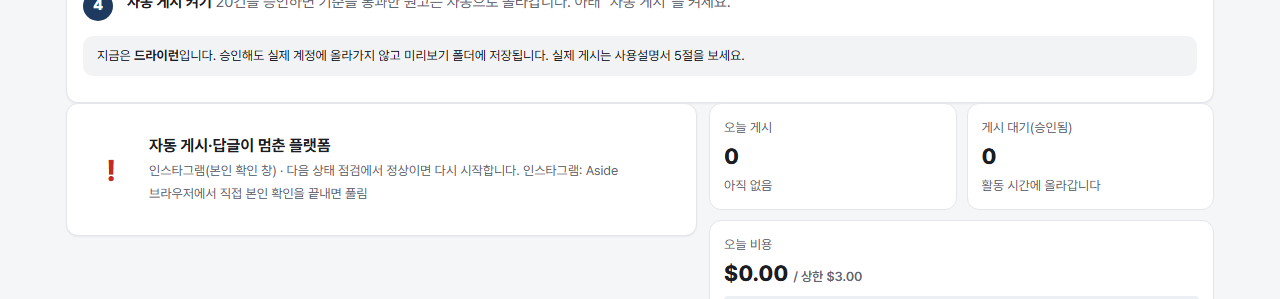
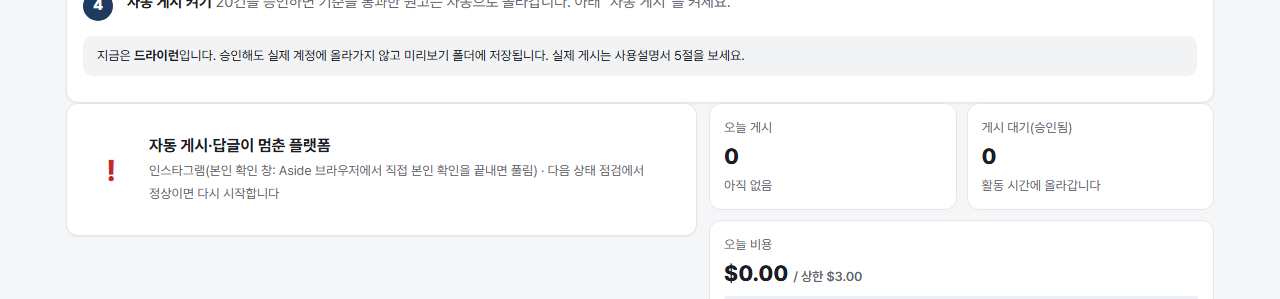
fix(health): address review on login state detail
- 화면 글을 못 읽은 경우(text 없음)는 빈 화면으로 보지 않음
- 두 단계 인증 주소를 문구보다 먼저(문자 2FA가 verify로 분류되던 것)
- 로그인 폼은 폼에만 있는 문구로(Meta 안내문의 '로그인' 낱말로 logged_out이 되던 것)
- 재알림은 세부 상태가 있는 auth 멈춤만, E5 전 멈춤은 그때부터 24시간을 셈
- 본인 확인 → 계정 불일치 전환도 상태 변화로
- 증거 쿨다운 중엔 스크린샷 없이 화면 글만, 빈 화면 오류 한 곳, dict 아닌 증거 방어
- 플랫폼 이름은 rate_limit.NAMES 하나, 오늘 화면은 플랫폼마다 "이유: 할 일"

Changed region(s): [[0.2188, 0.5418, 0.5, 0.602], [0.0938, 0.6321, 0.2812, 0.6622]]

diff --git a/nsm/app/templates/overview.html b/nsm/app/templates/overview.html
@@ -46,7 +46,7 @@
       {% if paused %}
       <li><div class="todo-item bad">
         <span class="todo-num">!</span>
-        <span class="todo-text"><b>자동 게시·답글이 멈춘 플랫폼</b><span>{% for p in paused %}{{ p|ko_platform }}({{ paused_why.get(p, '이유 미기록') }}){% if not loop.last %}, {% endif %}{% endfor %} · 다음 상태 점검에서 정상이면 다시 시작합니다{% if '로그인 필요' in paused_why.values() %}. 로그인 필요는 Aside 브라우저에서 다시 로그인하세요{% endif %}{% for p, t in paused_todo.items() %}. {{ p|ko_platform }}: {{ t }}{% endfor %}</span></span></div></li>
+        <span class="todo-text"><b>자동 게시·답글이 멈춘 플랫폼</b><span>{% for p in paused %}{{ p|ko_platform }}({{ paused_why.get(p, '이유 미기록') }}{% if paused_todo.get(p) %}: {{ paused_todo[p] }}{% endif %}){% if not loop.last %}, {% endif %}{% endfor %} · 다음 상태 점검에서 정상이면 다시 시작합니다{% if '로그인 필요' in paused_why.values() %}. 로그인 필요는 Aside 브라우저에서 다시 로그인하세요{% endif %}</span></span></div></li>
       {% endif %}
       {% for st in stalls %}
       <li><a class="todo-item warn" href="/logs">

diff --git a/nsm/adapters/platforms/aside_common.py b/nsm/adapters/platforms/aside_common.py
@@ -175,12 +175,11 @@ class AsideAdapterBase:
             return self._rate_limited(now, e)
         if e.code == "login":
             ev = getattr(e, "evidence", None)
+            ev = ev if isinstance(ev, dict) else None
             if is_blank(
                 ev
             ):  # 글 주소인데 하얀 화면: 로그인 풀림이 아니라 덜 열림(2026-11-02 스레드)
-                return PlatformError(
-                    f"{self.platform}: 페이지가 덜 열림(빈 화면, 로그인 여부 모름)", "transient"
-                )
+                return self._blank_error()
             return LoginRequiredError(
                 f"{self.platform} 로그인 필요: {e}", classify(ev) if ev else None
             )
@@ -197,13 +196,21 @@ class AsideAdapterBase:
             # 집 폴더 경로가 알림·대시보드에 드러나지 않게 이름만(logs\\shots 아래)
             err.args = (f"{err.args[0]} (증거: {d.name})", *err.args[1:])
 
+    def _blank_error(self) -> PlatformError:
+        return PlatformError(
+            f"{self.platform}: 페이지가 덜 열림(빈 화면, 로그인 여부 모름)", "transient"
+        )
+
+    def _evidence_open(self, kind: str) -> bool:
+        last = self._evidence_at.get(kind)
+        return last is None or self._now() - last >= EVIDENCE_EVERY
+
     def _save_evidence(self, kind: str, evidence: dict | None, error: str) -> Path | None:
         """증거 폴더 하나(같은 종류는 한 시간에 한 번). 못 남기면 None."""
         from nsm.adapters.evidence import save_evidence
 
         now = self._now()
-        last = self._evidence_at.get(kind)
-        if last is not None and now - last < EVIDENCE_EVERY:
+        if not self._evidence_open(kind):
             return None
         d = save_evidence(
             self.platform,
@@ -224,15 +231,15 @@ class AsideAdapterBase:
         - 하얀 빈 화면은 로그인 풀림이 아니라 일시적 실패로 던진다(연속일 때만 멈춤).
         - 로그인 페이지를 새로 열거나 확인 창을 누르지 않는다. 자동으로 풀지 않는다(ADR 0060).
         """
-        data = self._call(body, {}, probe=True) or {}
+        # 스크린샷은 증거를 남길 수 있을 때만 찍게 한다(한 시간 쿨다운 안이면 화면 글만)
+        data = self._call(body, {"shot": self._evidence_open("auth")}, probe=True) or {}
         me, page = data.get("me", ""), data.get("page")
+        page = page if isinstance(page, dict) else None
         if not me:
             if is_blank(page):
                 self.auth_state = None
-                raise PlatformError(
-                    f"{self.platform}: 페이지가 덜 열림(빈 화면, 로그인 여부 모름)", "transient"
-                )
-            self.auth_state = classify(page) if isinstance(page, dict) else None
+                raise self._blank_error()
+            self.auth_state = classify(page) if page else None
             detail = f"{name} 로그인 필요(Aside 브라우저)"
             if self.auth_state in EVIDENCE_STATES:
                 d = self._save_evidence(

diff --git a/tests/unit/test_auth_state.py b/tests/unit/test_auth_state.py
@@ -182,7 +182,7 @@ def test_health_scripts_only_open_home_and_never_click() -> None:
     for body, prefix in ((IG_HEALTH, JS_IG), (TH_HEALTH, JS_HANDLE)):
         own = body[len(prefix) :]
         assert own.count("nsmOpen(") == 1 and "goto(" not in own and ".click(" not in own
-        assert "login" not in own.lower() and "nsmEvidence()" in own
+        assert "login" not in own.lower() and "nsmEvidence({ noShot: !ARGS.shot })" in own
 
 
 # ------------------------------------------------------------------ 어댑터: 댓글 확인·게시 전 확인(nsmAssertHandle)
@@ -227,3 +227,61 @@ def test_ports_are_unchanged() -> None:
 
     assert set(HealthStatus.model_fields) == {"logged_in", "detail"}
     assert "auth_state" not in PlatformAdapter.__dict__
+
+
+# ------------------------------------------------------------------ 리뷰 반영
+
+
+def test_unread_screen_is_not_blank() -> None:
+    """화면 글 읽기가 시간 초과·실패하면(text 키 없음) 빈 화면이 아니라 모르는 것이다."""
+    page = {"url": "https://www.instagram.com/", "screenshot": "x"}
+    assert not is_blank(page) and classify(page) == "unknown"
+
+
+def test_sms_two_factor_url_wins_over_code_words() -> None:
+    page = {
+        "url": "https://www.instagram.com/accounts/login/two_factor?next=%2F",
+        "text": "Enter the 6-digit code we sent to +82 •••• 12",
+        "labels": [],
+    }
+    assert classify(page) == "two_factor"
+
+
+def test_login_word_alone_is_not_a_login_form() -> None:
+    """Meta 안내문 어디에나 있는 '로그인'·'password' 낱말만으로는 로그아웃이 아니다."""
+    page = {
+        "url": "https://www.instagram.com/",
+        "text": "Meta는 회원님의 로그인을 돕고 password 보호",
+        "labels": [],
+    }
+    assert classify(page) == "unknown"
+    form = {"url": "https://www.instagram.com/", "text": "비밀번호를 잊으셨나요?", "labels": []}
+    assert classify(form) == "logged_out"
+
+
+def test_non_dict_evidence_does_not_crash(clock) -> None:
+    a = ThreadsAdapter(
+        "@me", clock, repl=FakeRepl(error=AsideError("로그인돼 있지 않음", "login", "garbage"))
+    )  # type: ignore[arg-type]
+    with pytest.raises(LoginRequiredError) as e:
+        a.fetch_new_comments(["P1"], None)
+    assert e.value.auth_state is None
+    a.repl = FakeRepl({"me": "", "page": ["x"]})
+    assert not a.health().logged_in and a.auth_state is None
+
+
+def test_screenshot_only_when_evidence_can_be_saved(clock) -> None:
+    a = InstagramAdapter(
+        "@nonsleepmarketer",
+        clock,
+        repl=FakeRepl({"me": "", "page": _ev("instagram-20261029-085642")}),
+    )
+    seen: list[bool] = []
+    run = a.repl.run
+    a.repl.run = lambda body, args=None, files=None: (
+        seen.append(args["shot"]),
+        run(body, args, files),
+    )[1]
+    a.health()  # 증거를 남김 → 다음 한 시간은 찍지 않는다
+    a.health()
+    assert seen == [True, False]

diff --git a/nsm/adapters/platforms/auth_state.py b/nsm/adapters/platforms/auth_state.py
@@ -40,6 +40,7 @@ def _rules() -> dict[str, Any]:
     )
     comp = lambda p: re.compile(p, re.IGNORECASE)  # noqa: E731
     return {
+        "url_first": [(r["state"], comp(r["pattern"])) for r in raw["url_first"]],
         "text": [(r["state"], comp(r["pattern"])) for r in raw["text_rules"]],
         "url": [(r["state"], comp(r["pattern"])) for r in raw["url_rules"]],
         "check_urls": comp(raw["check_urls"]),
@@ -53,21 +54,27 @@ def _parts(page: dict[str, Any] | None) -> tuple[str, str, list[str]]:
     return str(page.get("url") or ""), str(page.get("text") or "").strip(), labels
 
 
-def is_blank(page: dict[str, Any] | None) -> bool:
-    """덜 열린 하얀 화면: 주소가 있고, 로그인·확인 주소가 아니고, 글과 라벨이 모두 비었다(셋 다일 때만)."""
-    if not page:
+def is_blank(page: Any) -> bool:
+    """덜 열린 하얀 화면: 주소가 있고, 로그인·확인 주소가 아니고, 글과 라벨이 모두 비었다(셋 다일 때만).
+
+    화면 글을 읽었을 때만 판단한다(`text` 키가 있을 때). 읽기가 시간 초과·실패하면 글이 없는 게 아니라 모르는 것이다.
+    """
+    if not isinstance(page, dict) or "text" not in page:
         return False
     url, text, labels = _parts(page)
     return bool(url) and not _rules()["check_urls"].search(url) and not text and not labels
 
 
-def classify(page: dict[str, Any] | None) -> AuthState:
-    """화면 정보로 세부 상태. 글 → 주소 → 로그인 폼 순서. 화면 정보가 없으면 unknown."""
-    if not page:
+def classify(page: Any) -> AuthState:
+    """화면 정보로 세부 상태. 두 단계 인증 주소 → 글 → 주소 → 로그인 폼 순서. 화면 정보가 없으면 unknown."""
+    if not isinstance(page, dict) or not page:
         return "unknown"
     url, text, labels = _parts(page)
     seen = "\n".join([text, *labels])
     r = _rules()
+    for state, pat in r["url_first"]:
+        if pat.search(url):
+            return state
     for state, pat in r["text"]:
         if pat.search(seen):
             return state

diff --git a/nsm/engine/pause.py b/nsm/engine/pause.py
@@ -24,7 +24,6 @@ PAUSE_INFO_KEY = "paused_platforms_info"
 HEALTH_STREAK_KEY = "health_failure_streak"  # {플랫폼: 연속 일시적 실패 수}
 REMIND_EVERY = timedelta(hours=24)  # 같은 멈춤 상태의 알림 간격
 
-_NAMES = {"instagram": "인스타그램", "threads": "스레드"}
 # 로그인 세부 상태별 (짧은 이름, 사람이 할 일, 알림 본문). {name}은 플랫폼 이름(E5, ADR 0060)
 AUTH_STATE_TEXT: dict[str, tuple[str, str, str]] = {
     "logged_out": (
@@ -69,7 +68,9 @@ def _state_text(info: dict[str, Any] | None, platform: str = "") -> tuple[str, s
     t = AUTH_STATE_TEXT.get(str((info or {}).get("auth_state") or ""))
     if t is None:
         return None
-    name = _NAMES.get(platform, platform)
+    from nsm.engine.rate_limit import NAMES
+
+    name = NAMES.get(platform, platform)
     batchim = _has_batchim(name)
     subs = {
         "{name}이": name + ("이" if batchim else "가"),
@@ -111,12 +112,17 @@ def auth_state_of(obj: Any) -> str | None:
 
 
 def remind_due(info: dict[str, Any], now: datetime) -> bool:
-    """같은 상태로 멈춘 채 마지막 알림(없으면 멈춘 시각)에서 24시간이 지났나."""
-    at = info.get("notified_at") or info.get("since")
+    """로그인 세부 상태로 멈춘 채 마지막 알림에서 24시간이 지났나.
+
+    다시 알리는 것은 로그인 세부 상태가 있는 `auth` 멈춤뿐이다(E5 범위). 마지막 알림 시각이 없는 멈춤(E5 전)은
+    호출하는 쪽이 지금 시각을 적어 두고 거기서부터 센다(올리자마자 알림이 쏟아지지 않게).
+    """
+    if info.get("reason") != "auth" or not info.get("auth_state") or not info.get("notified_at"):
+        return False
     try:
-        return now - datetime.fromisoformat(at) >= REMIND_EVERY
+        return now - datetime.fromisoformat(info["notified_at"]) >= REMIND_EVERY
     except (TypeError, ValueError):
-        return True
+        return False
 
 
 def pause_info(repo: Any) -> dict[str, dict[str, Any]]:

diff --git a/tests/engine/test_login_state.py b/tests/engine/test_login_state.py
@@ -175,3 +175,36 @@ def test_particles_follow_the_platform_name() -> None:
     assert reason_text({"reason": "auth", "auth_state": "verify"}).startswith(
         "문자·이메일 인증 요구로 "
     )
+
+
+def test_pause_from_before_e5_is_not_reminded_right_away(ctx: JobContext, clock) -> None:
+    """리뷰: E5 전 멈춤(notified_at 없음)은 올리자마자 '(계속)'을 보내지 않고, 일시적 멈춤엔 재알림이 없다."""
+    ctx.repo.set_setting(PAUSED_KEY, ["instagram", "threads"])
+    old = "2026-10-01T09:00:00+09:00"
+    ctx.repo.set_setting(
+        PAUSE_INFO_KEY,
+        {
+            "instagram": {"reason": "auth", "auth_state": "challenge", "since": old},
+            "threads": {"reason": "ui_changed", "since": old},
+        },
+    )
+    ctx.adapters["instagram"].auth_state = "challenge"
+    ctx.adapters["threads"].error = PlatformError("threads: 버튼 없음", "ui_changed")
+    run_health(ctx)
+    assert ctx.notifier.calls == []
+    clock.advance(hours=25)
+    run_health(ctx)
+    assert [c[0] for c in ctx.notifier.calls] == ["instagram 본인 확인 창 (계속)"]
+
+
+def test_switch_to_account_mismatch_is_a_change(ctx: JobContext, clock) -> None:
+    a = ctx.adapters["instagram"]
+    a.auth_state = "challenge"
+    run_health(ctx)
+    a.auth_state = None
+    a.health = lambda: HealthStatus(logged_in=False, detail="로그인 계정 @other ≠ 설정 @me")  # type: ignore[method-assign]
+    clock.advance(minutes=30)
+    run_health(ctx)
+    info = _info(ctx)
+    assert "auth_state" not in info and "≠ 설정" in info["detail"]
+    assert ctx.notifier.calls[-1][0] == "instagram 로그인 필요"

diff --git a/nsm/engine/health_metrics.py b/nsm/engine/health_metrics.py
@@ -155,13 +155,19 @@ def _still_paused(ctx, platform, info, kind, state, err, detail, now) -> None:
             return
         info[platform] = {"reason": "", "since": now.isoformat()}
     cur = info[platform]
+    # 계정 불일치는 세부 상태가 없다(None). 본인 확인을 끝냈는데 다른 계정이면 그것도 바뀐 것이다
+    mismatch = state is None and "≠ 설정" in detail and cur.get("auth_state") is not None
     changed = kind == "auth" and (
-        cur.get("reason") != "auth" or (state is not None and state != cur.get("auth_state"))
+        cur.get("reason") != "auth"
+        or (state is not None and state != cur.get("auth_state"))
+        or mismatch
     )
     if changed:
         cur.update(reason="auth", detail=detail[:200])
         if state:
             cur["auth_state"] = state
+        else:
+            cur.pop("auth_state", None)
         diag = record_incident(
             ctx,
             platform,
@@ -172,6 +178,8 @@ def _still_paused(ctx, platform, info, kind, state, err, detail, now) -> None:
         )
         title, body = pause_notice(platform, cur, detail)
         ctx.notifier.notify(title, with_diagnosis(body, diag), "error")
+    elif not cur.get("notified_at"):  # E5 전 멈춤: 지금부터 24시간을 센다(바로 알리지 않음)
+        pass
     elif remind_due(cur, now):
         title, body = pause_notice(platform, cur, cur.get("detail") or detail)
         ctx.notifier.notify(f"{title} (계속)", f"아직 멈춰 있습니다. {body}", "warn")

diff --git a/nsm/adapters/drivers/aside.py b/nsm/adapters/drivers/aside.py
@@ -69,7 +69,8 @@ function nsmLeft() { return Math.max(0, __deadline - Date.now()); }
 class NsmError extends Error { constructor(code, msg) { super(msg); this.code = code; } }
 async function nsmOpen(url) { const p = await openTab(url); __opened.push(p); return p; }
 async function nsmWait(loc, ms) { await loc.first().waitFor({ timeout: Math.max(1000, Math.min(ms || 20000, nsmLeft())) }); return loc.first(); }
-async function nsmEvidence() {
+// opts.noShot: 화면 글만 모으고 스크린샷은 찍지 않는다(health가 증거를 남기지 않을 때, E5)
+async function nsmEvidence(opts) {
   const pg = __opened[__opened.length - 1];
   if (!pg) return null;
   const ev = { url: pg.url() };
@@ -87,7 +88,7 @@ async function nsmEvidence() {
     return { dialogs: dialogs.length, labels, text };
   }).catch(() => ({})), 3000);
   Object.assign(ev, info || {});
-  const shot = await pg.screenshot({ timeout: budget(5000) }).catch(() => null);
+  const shot = (opts && opts.noShot) ? null : await pg.screenshot({ timeout: budget(5000) }).catch(() => null);
   if (shot) ev.screenshot = Buffer.from(shot).toString('base64');
   return ev;
 }

diff --git a/tests/app/test_login_state_view.py b/tests/app/test_login_state_view.py
@@ -44,8 +44,8 @@ def test_overview_and_incidents_show_state_and_todo(db, clock, app_config, tmp_p
     )
     client = TestClient(create_app(state))
     home = client.get("/").text
-    assert "인스타그램(본인 확인 창)" in home
-    assert "인스타그램: Aside 브라우저에서 직접 본인 확인을 끝내면 풀림" in home
+    # 플랫폼마다 괄호 안에 이유와 할 일(같은 상태를 두 번 말하지 않게)
+    assert "인스타그램(본인 확인 창: Aside 브라우저에서 직접 본인 확인을 끝내면 풀림)" in home
     inc = client.get("/incidents").text
     assert "본인 확인 창으로 자동 게시·답글 멈춤" in inc  # 받침에 맞는 조사
     assert "본인 확인 창" in inc and "직접 본인 확인을 끝내면 풀림" in inc

diff --git a/nsm/adapters/platforms/instagram.py b/nsm/adapters/platforms/instagram.py
@@ -155,7 +155,7 @@ _HEALTH = (
 const pg = await nsmOpen('https://www.instagram.com/');
 await nsmCheckPage(pg);
 const me = ((await readHandle(pg)) || '').toLowerCase();
-if (!me && nsmLeft() > 6000) return { me, page: await nsmEvidence() };
+if (!me && nsmLeft() > 6000) return { me, page: await nsmEvidence({ noShot: !ARGS.shot }) };
 return { me };
 """
 )

diff --git a/nsm/adapters/platforms/threads.py b/nsm/adapters/platforms/threads.py
@@ -57,7 +57,7 @@ _HEALTH = (
 const pg = await nsmOpen('https://www.threads.com/');
 await nsmCheckPage(pg);
 const me = ((await readHandle(pg)) || '').toLowerCase();
-if (!me && nsmLeft() > 6000) return { me, page: await nsmEvidence() };
+if (!me && nsmLeft() > 6000) return { me, page: await nsmEvidence({ noShot: !ARGS.shot }) };
 return { me };
 """
 )

diff --git a/docs/adr/0060-login-state-detail.md b/docs/adr/0060-login-state-detail.md
@@ -35,16 +35,20 @@ health와 댓글 확인·게시 전 확인은 내 프로필 링크가 안 보이
 | `restricted` | 계정 제한·정지 안내 문구 | 플랫폼 앱에서 계정 상태 확인 | 풀리면 다음 점검 |
 | `unknown` | 로그인 안 됨, 원인을 화면으로 모름 | 화면을 보고 판단 | 다음 점검 |
 
-- **판정 순서**: 화면 글·라벨 → 주소 → 로그인 폼 문구 → unknown. 문구를 먼저 보는 이유는 위 3의 주소 함정이다. `restricted`는 정지·비활성화 안내 문구가 있을 때만 쓴다.
-- **빈 화면은 로그인 문제가 아니다.** 셋을 모두 만족할 때만 일시적 실패(`transient`)로 본다: 로그인·확인 주소가 아니고, 보이는 글이 없고, 라벨도 없다. 로그인 폼은 글이 있으므로 진짜 로그아웃을 삼키지 않는다.
+- **판정 순서**: 두 단계 인증 주소 → 화면 글·라벨 → 주소 → 로그인 폼 문구 → unknown.
+  - 문구를 먼저 보는 이유는 위 3의 주소 함정이다. `restricted`는 정지·비활성화 안내 문구가 있을 때만 쓴다.
+  - 두 단계 인증 주소만 예외로 먼저 본다. 문자로 받는 두 단계 인증은 문자 인증(verify)과 같은 말("코드를 입력")을 쓰기 때문이다.
+  - 로그인 폼 문구는 폼에만 있는 말("비밀번호를 잊으셨나요", "가입하기", "Instagram으로 계속")만 쓴다. Meta 안내문 어디에나 있는 "로그인"·"password" 같은 낱말로는 로그아웃이라고 하지 않는다. 그래야 원인 모름(unknown)이 제 역할을 한다.
+- **빈 화면은 로그인 문제가 아니다.** 셋을 모두 만족할 때만 일시적 실패(`transient`)로 본다: 로그인·확인 주소가 아니고, 보이는 글이 없고, 라벨도 없다. 로그인 폼은 글이 있으므로 진짜 로그아웃을 삼키지 않는다. 화면 글 읽기가 시간 초과로 실패한 경우(글 정보 자체가 없음)는 빈 화면이 아니라 모름으로 본다.
 - **패턴은 한 곳(`data/auth_states.json`)에 모은다.** 플랫폼은 문구를 자주 바꾸고, 바뀌면 unknown으로 보인다. 그때 증거 폴더의 화면 글을 보고 JSON만 고치면 된다. 코드·테스트를 뒤지지 않게 한다.
 - **포트는 그대로 둔다.** `HealthStatus`는 동결이다. 상태는 어댑터의 `auth_state` 속성(health)과 `LoginRequiredError.auth_state`(댓글·게시)에 두고, 엔진은 `getattr`으로 읽는다(E1의 `kind`, ADR 0038의 `retry_at`과 같은 방식). 상태를 detail 문자열 앞에 붙이지 않는다.
 - **멈춤 정보**(`paused_platforms_info`)에 `auth_state`와 `notified_at`을 더한다.
   - 멈춘 플랫폼도 점검은 한다. 실패 횟수와 실패 기록은 다시 쌓지 않는다.
   - 상태가 바뀌면(예: challenge → verify) 멈춤 정보를 고치고 바로 알린다.
-  - 같은 상태면 `notified_at`부터 24시간마다 한 번 "(계속)" 알림을 보낸다.
+  - 같은 상태면 `notified_at`부터 24시간마다 한 번 "(계속)" 알림을 보낸다. 다시 알리는 것은 세부 상태가 있는 `auth` 멈춤뿐이다. E5 전에 생긴 멈춤(`notified_at` 없음)은 그때부터 24시간을 센다(올리자마자 알림이 쏟아지지 않게).
+  - 본인 확인을 끝냈는데 다른 계정으로 로그인돼 있으면(계정 불일치) 그것도 상태가 바뀐 것으로 보고 바로 알린다.
   - 멈춘 플랫폼의 일시적 실패는 멈춤 이유를 바꾸지 않는다.
-- **증거**: 보안 확인·두 단계 인증·제한이면 health가 예외 없이도 화면을 남긴다(E1 쿨다운 1시간 그대로). 그냥 로그아웃은 남기지 않는다.
+- **증거**: 보안 확인·두 단계 인증·제한이면 health가 예외 없이도 화면을 남긴다(E1 쿨다운 1시간 그대로). 그냥 로그아웃은 남기지 않는다. 쿨다운 중에는 스크린샷 없이 화면 글만 받는다(30분마다 화면을 찍어 버리지 않게).
 - **계정을 더 건드리지 않는다.** health 스크립트는 홈 하나만 열고, 로그인 페이지를 새로 열거나 무엇을 누르지 않는다(테스트로 고정). 지표 잡은 멈춘 플랫폼을 건너뛴다.
 
 ## 결과
